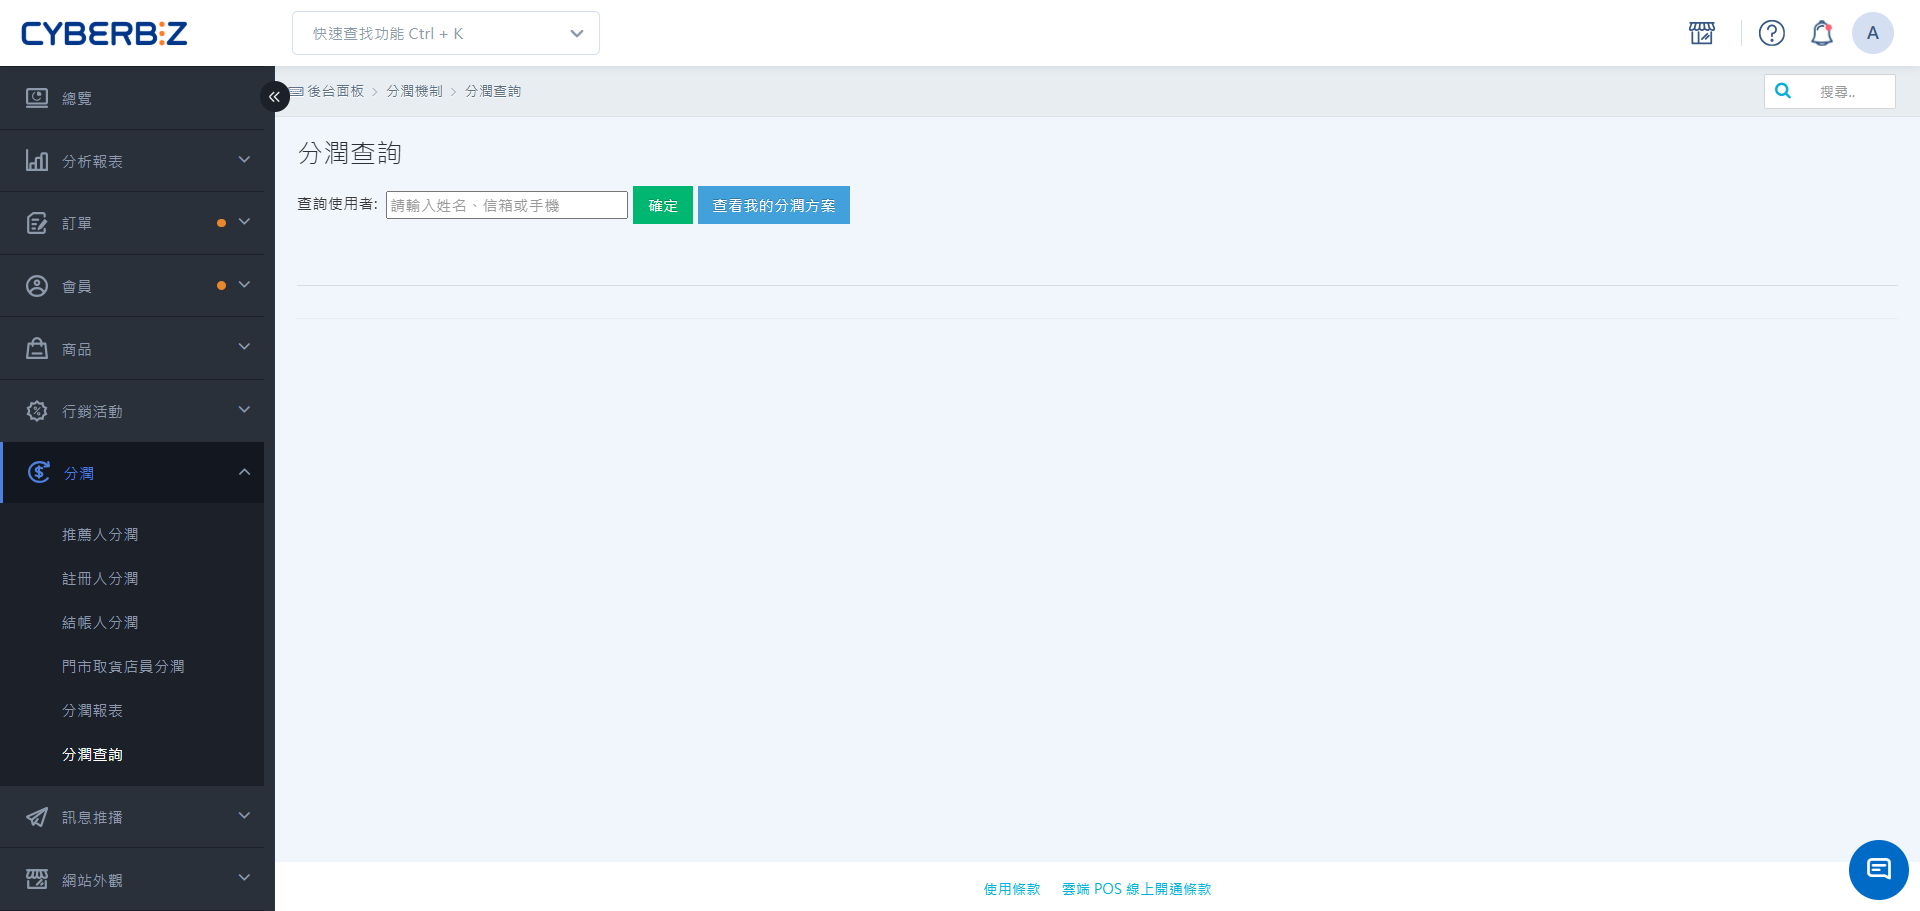
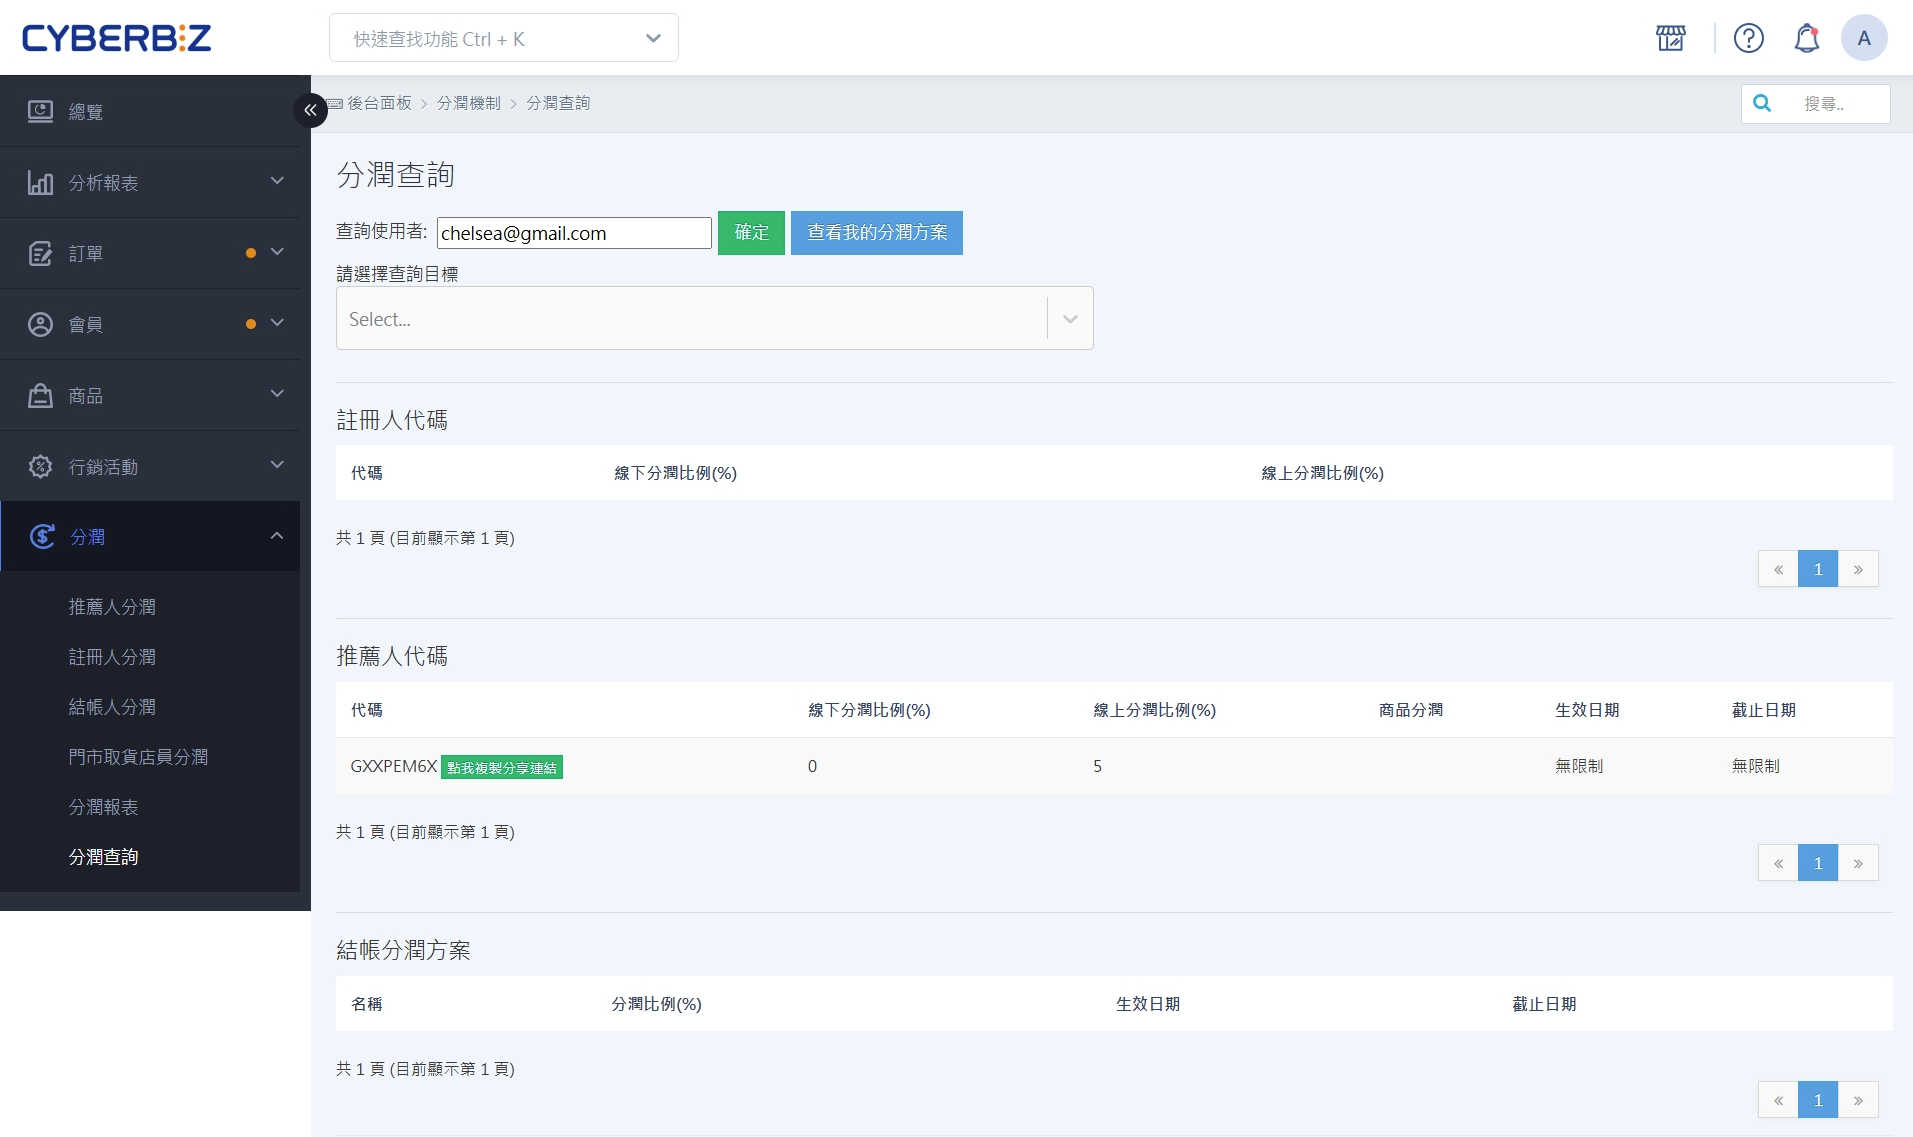
分潤推薦碼與一頁式商店應用整合-mm-yvonne

diff --git a/docs/ec/profit-sharing/referral-link-applications.md b/docs/ec/profit-sharing/referral-link-applications.md
@@ -1,8 +1,8 @@
 ---
 title: 推薦碼連結的應用
-description: 取得推薦碼後，您可以透過製作短網址、QR Code 或設置 UTM 參數，將推薦連結整合至各種行銷管道（如 FB、IG、LINE 或實體文宣），並精確追蹤不同來源的導購成效。
+description: 為指定頁面建立分潤推薦連結，並透過短網址、QR Code 或 UTM 參數應用於社群、實體文宣與廣告等推廣管道，追蹤不同來源的導購成效。
 created: 2026-02-06 00:00
-last_modified: 2026-09-18 14:10
+last_modified: 2026-10-01 11:30
 lang: zh-TW
 type: guide
 author: Ann
@@ -41,7 +41,9 @@ features:
   - 推薦人分潤
   - UTM 追蹤
 prerequisites: []
-related: []
+related: 
+  - ec/profit-sharing/query-profit-sharing-partners-and-codes/
+  - ec/marketing/one-page-store/one-page-store/
 tags:
   - 推薦連結
   - QR Code
@@ -69,20 +71,15 @@ hide: []
 ---
 # 推薦碼連結的應用
 
-取得推薦碼後，您可以透過製作短網址、QR Code 或設置 UTM 參數，將推薦連結整合至各種行銷管道（如 FB、IG、LINE 或實體文宣），並精確追蹤不同來源的導購成效。
+為指定頁面建立分潤推薦連結，並透過短網址、QR Code 或 UTM 參數應用於社群、實體文宣與廣告等推廣管道，追蹤不同來源的導購成效。
 { .subtitle }
 
 [:lucide-layers:{ title="適用產品" }](../../resources/conventions#適用產品) | 品牌官網 / 智能 POS
 [:lucide-tag:{ title="適用方案" }](../../resources/conventions#適用方案) | 進階 / 高手 / 所有PLUS / 企業
 { .doc-badge }
 
-!!! tip "應用情境"
-	- **社群媒體推廣**：將長網址縮短後放入 IG 資訊欄或 FB 貼文，美化視覺並增加點擊率。
-	- **實體活動引流**：製作專屬 QR Code 印刷於店內海報或商品吊牌，導引顧客掃碼領取優惠。
-	- **精準廣告追蹤**：透過 UTM 參數區分不同網紅（KOL）或不同廣告版位的轉單成效。
 
-
-## 什麼是推薦碼連結
+## 什麼是推薦碼連結 { #referral-link-applications-definition }
 
 推薦碼連結是指在官網網址後方嵌入專屬「推薦碼（rcode）」參數的特殊連結。
 
@@ -90,41 +87,88 @@ hide: []
 - **自動帶入**：當透過連結結帳時，系統會自動將推薦碼帶入欄位，無需消費者手動輸入。
 
 
-## 操作流程
+## 為指定頁面建立分潤推薦連結 { #referral-link-applications-specific-page }
 
-### 步驟 1：取得並加工推薦碼連結
+若要將消費者導向官網的特定商品頁、活動頁或一頁式商店，可在目標網址中加入推薦碼，建立對應的分潤推薦連結。
 
-在開始推廣前，請先從後台複製帶有推薦碼的原始連結。
+### 取得推薦碼 { #referral-link-applications-get-code }
 
-1. 登入 CYBERBIZ 管理後台，前往 **分潤 > 分潤查詢**。
-2. 搜尋並點選目標夥伴，找到其專屬的 **分潤代碼/連結**。
-3. 點選連結旁的 **複製分享連結** 圖示。
-4. 根據推廣需求進行以下應用製作：
+製作連結前，請先查詢並取得分潤夥伴的推薦碼：
 
-    === "產生短網址"
+<div class="grid cards" markdown>
 
-        若連結過長不便於社群分享，可使用外部短網址工具。
+- :lucide-copy:{ .lg }
+  [__一鍵複製推薦碼__](query-profit-sharing-partners-and-codes.md#任務三一鍵複製推薦碼)<br>
+  前往 **分潤 > 推薦人分潤 > 第三方總表**，點擊複製圖示取得推薦人的推薦碼。
 
-        - **步驟**：將複製的 **完整推薦連結** 貼入工具產出。
-        - **注意**：絕對不可先縮短網址再手動拼接推薦碼。
+</div>
 
-    === "產生 QR Code"
+### 製作方式 { #referral-link-applications-create-link }
 
-        適用於線下印刷或直播畫面。
-
-        - **步驟**：將連結貼入任何 QR Code 產生器，即可生成對應圖像。
-        - **應用**：建議將 QR Code 放置於結帳櫃檯、包裹隨附小卡或雜誌廣告中。
-
-    === "設置 UTM 參數"
-
-        用於區分同一個推薦人在不同管道的表現。
-
-        - **手動設定規則**：在推薦連結（如 `.../?rcode=xxx`）後方加上 `&` 符號，接著填入 UTM 參數。
-        - **正確範例**：`https://.../?rcode=xxx&utm_medium=fb&utm_source=kol_a`
-        - **錯誤範例**：`https://.../?rcode=xxx?utm_medium=fb`（不可使用兩個問號）
+- **原始網址**：`https://store.com/xxx/yyy`
+- **推薦碼後綴格式**：`?rcode=[推薦碼]`
+- **推薦碼**：`abc123`
+- **最終連結**：`https://store.com/xxx/yyy?rcode=abc123`
 
 
-### 步驟 2：測試推薦連結有效性
+### 情境範例 { #referral-link-applications-example }
+
+[一頁式商店](../marketing/one-page-store/one-page-store.md)可結合分潤功能，透過製作帶有推薦碼的網址，當消費者點擊含推薦碼之連結後，系統將自動於購物車帶入推薦碼。
+
+- **原始網址**：`https://store.com/events/spring-sale`
+- **推薦碼後綴格式**：`?rcode=[推薦碼]`
+- **推薦碼**：`abc123`
+- **最終連結**：`https://store.com/events/spring-sale?rcode=abc123`
+
+
+
+## 加工推薦碼連結 { #referral-link-applications-processing }
+
+在開始推廣前，請先從後台複製帶有推薦碼的原始連結，系統提供以下查詢方式：
+
+<div class="grid cards" markdown>
+
+- :lucide-search:{ .lg }
+  [__查詢合作夥伴的分潤資訊__](query-profit-sharing-partners-and-codes.md#任務一查詢合作夥伴的分潤資訊)<br>
+  適合查詢特定合作夥伴參與的分潤方案、分潤比例與推薦碼。
+
+- :lucide-user-round-search:{ .lg }
+  [__員工自我查詢分潤資訊__](query-profit-sharing-partners-and-codes.md#任務二員工自我查詢分潤資訊)<br>
+  適合內部員工查詢所屬的分潤方案，取得個人推廣連結。
+
+- :lucide-copy:{ .lg }
+  [__一鍵複製推薦碼__](query-profit-sharing-partners-and-codes.md#任務三一鍵複製推薦碼)<br>
+  適合從第三方推薦人名單快速取得合作夥伴的推薦碼。
+
+</div>
+
+### 製作方式 { #referral-link-applications-processing-methods }
+
+
+=== "產生短網址"
+
+    若連結過長不便於社群分享，可使用外部短網址工具。
+
+    - **步驟**：將複製的 **完整推薦連結** 貼入工具產出。
+    - **注意**：絕對不可先縮短網址再手動拼接推薦碼。
+
+=== "產生 QR Code"
+
+    適用於線下印刷或直播畫面。
+
+    - **步驟**：將連結貼入任何 QR Code 產生器，即可生成對應圖像。
+    - **應用**：建議將 QR Code 放置於結帳櫃檯、包裹隨附小卡或雜誌廣告中。
+
+=== "設置 UTM 參數"
+
+    用於區分同一個推薦人在不同管道的表現。
+
+    - **手動設定規則**：在推薦連結（如 `.../?rcode=xxx`）後方加上 `&` 符號，接著填入 UTM 參數。
+    - **正確範例**：`https://.../?rcode=xxx&utm_medium=fb&utm_source=kol_a`
+    - **錯誤範例**：`https://.../?rcode=xxx?utm_medium=fb`（不可使用兩個問號）
+
+
+## 測試推薦連結有效性 { #referral-link-applications-testing }
 
 在正式發布連結前，請務必依以下步驟測試追蹤功能是否正常。
 
@@ -138,7 +182,7 @@ hide: []
 
 
 
-## 常見問題
+## 常見問題 { #referral-link-applications-faq }
 
 ??? quote "為什麼我縮短網址後，推薦碼就失效了？"
     通常是因為您在縮網址工具中輸入的是 **不含推薦碼的官網首頁網址**。請務必確認縮網址工具的輸入來源是包含 `?rcode=...` 的完整字串。

diff --git a/docs/ec/profit-sharing/query-profit-sharing-partners-and-codes.md b/docs/ec/profit-sharing/query-profit-sharing-partners-and-codes.md
@@ -2,7 +2,7 @@
 title: 查詢分潤夥伴與代碼
 description: 您可以隨時在後台查詢所有分潤合作夥伴（包括外部網紅、站內會員與內部員工）所擁有的分潤方案與專屬代碼，以便隨時提供推廣資訊給合作夥伴。
 created: 2026-02-06 00:00
-last_modified: 2026-09-18 14:10
+last_modified: 2026-10-01 11:30
 lang: zh-TW
 type: guide
 author: Ann
@@ -105,6 +105,7 @@ hide: []
     - **方案名稱**：目前綁定的具體方案。
     - **分潤代碼**：該對象在該方案中的專屬推薦碼或註冊代碼。
     - **分潤比例**：對應的線上/線下抽成趴數。
+    - **分享連結**：點擊 **複製分享連結**，即可取得帶有推薦碼的官網網址。
 
 ![](../../assets/images/EC-後台-分潤-分潤查詢-畫面總覽01.png){ .screenshot }
 
@@ -119,7 +120,17 @@ hide: []
     > 員工可直接點選連結圖示進行複製，或產出 QR Code 用於推廣。
 
 
-### 任務三：提供第三方推薦人外部查詢連結
+### 任務三：一鍵複製推薦碼
+
+於 **第三方總表** 可一次檢視所有第三方分潤推薦人。
+
+1. 前往 **分潤 > 推薦人分潤**，點擊 **第三方總表** 頁籤。
+2. 點擊複製圖示，即可一鍵複製該推薦人的推薦碼。
+
+![](../../assets/images/EC-後台-分潤-推薦人分潤-查看第三方分潤夥伴名單02.png){ .screenshot }
+
+
+### 任務四：提供第三方推薦人外部查詢連結
 
 === "商家"
 
@@ -143,16 +154,6 @@ hide: []
     此報表會列出所有透過推薦碼成立的訂單（**包含未付款、未結案等狀態訂單**），方便推薦人即時掌握推廣動態。
             
     此報表僅供「業績追蹤」參考，**最終分潤金額仍須以訂單「已結案」後的結算數據為準**。
-
-
-### 任務四：一鍵複製推薦碼
-
-於 **第三方總表** 可一次檢視所有第三方分潤推薦人。
-
-1. 前往 **分潤 > 推薦人分潤**，點擊 **第三方總表** 頁籤。
-2. 點擊複製圖示，即可一鍵複製該推薦人的推薦碼。
-
-![](../../assets/images/EC-後台-分潤-推薦人分潤-查看第三方分潤夥伴名單02.png){ .screenshot }
 
 ## 後續步驟
 

diff --git a/docs/ec/marketing/one-page-store/one-page-store.md b/docs/ec/marketing/one-page-store/one-page-store.md
@@ -2,7 +2,7 @@
 title: 一頁式商店
 description: 一頁式商店將商品資訊、特色介紹與結帳流程整合於單一網頁，大幅減少頁面切換造成的流失，是提升廣告轉換率與行動購物體驗的高效工具。
 created: 2026-02-11 00:00
-last_modified: 2026-09-18 14:10
+last_modified: 2026-10-01 11:30
 lang: zh-TW
 type: guide
 author: Ann
@@ -45,6 +45,7 @@ related:
   - ec/website-appearance/code-customization/text-editor/
   - ec/profit-sharing/query-profit-sharing-partners-and-codes/
   - ec/profit-sharing/referrer-profit-sharing/
+  - ec/profit-sharing/referral-link-applications/
 tags:
   - 轉單優化
   - 單頁設計
@@ -277,14 +278,13 @@ hide: []
 
 ### 1. 生成分潤推薦碼連結
 
-一頁式商店可結合分潤功能，透過製作帶有推薦碼的網址，當消費者點擊含推薦碼之連結後，系統將自動於購物車帶入推薦碼。
+<div class="grid cards" markdown>
 
-- **原始網址**：`https://store.com/events/spring-sale`
-- **推薦碼後綴格式**：`?rcode=[推薦碼]`
-- **推薦碼**： `abc123`
-- **最終連結**：`https://store.com/events/spring-sale?rcode=abc123`
+- :lucide-share-2:{ .lg }     
+  [__製作一頁式商店推薦碼連結__](../../profit-sharing/referral-link-applications.md#referral-link-applications-example)  
+  了解如何製作帶有推薦碼的網址連結。
 
-> :lucide-info: [查詢分潤夥伴的推薦碼](../../profit-sharing/query-profit-sharing-partners-and-codes/#任務四一鍵複製推薦碼)
+</div>
 
 ### 2. 新增頁面鎖右鍵功能
 
